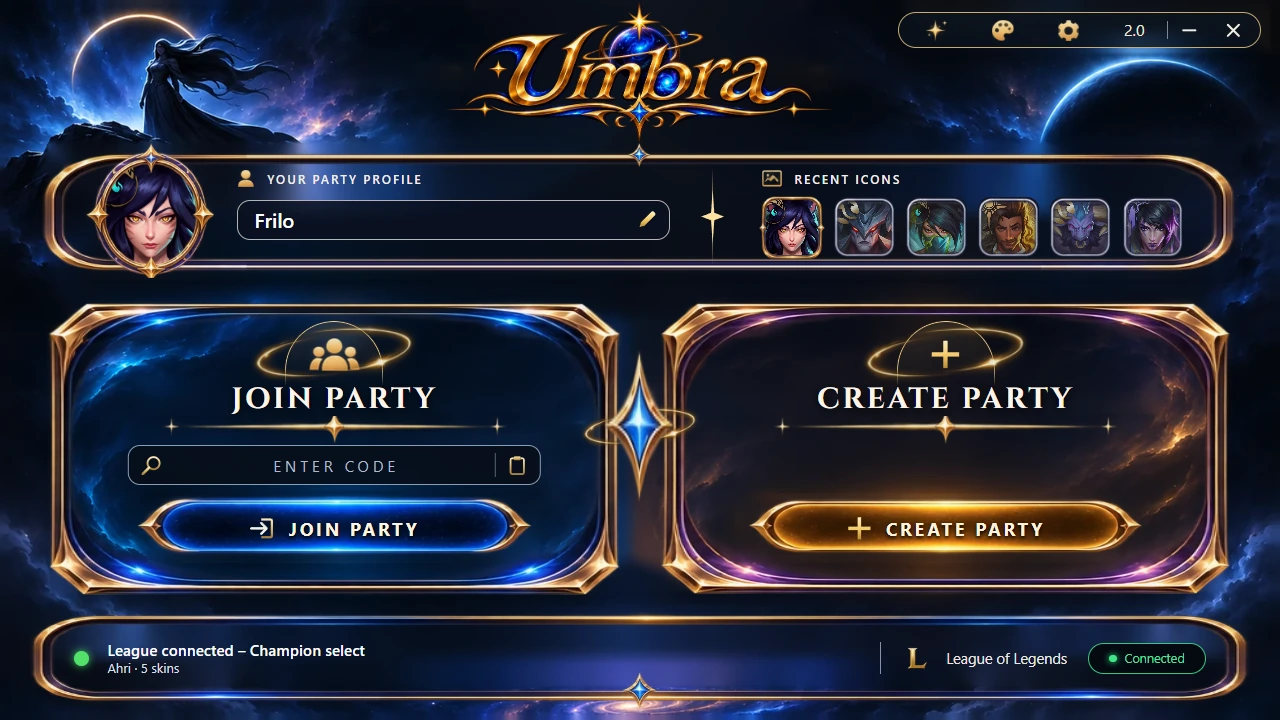
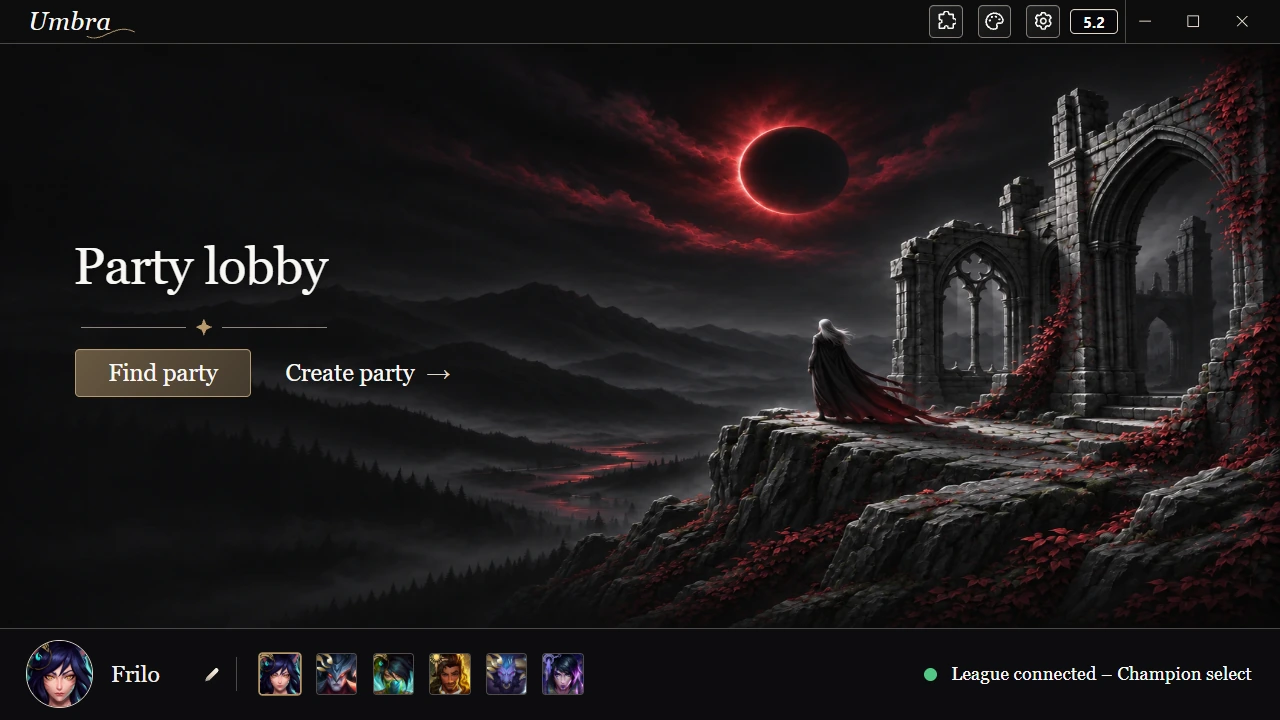
Refresh Umbra overview and screenshots for version 5.2

diff --git a/README.md b/README.md
@@ -11,7 +11,9 @@ Riot skins, chromas and custom looks for League of Legends, ready from champion 
   <a href="https://github.com/frilo369/Umbra/issues"><img alt="Help and feedback" src="https://img.shields.io/badge/Help_%26_feedback-Open_an_issue-26364d?style=for-the-badge"></a>
 </p>
 
-<p align="center"><img src="docs/images/lobby.webp" alt="Umbra's gold and navy lobby, with a personal profile, recent icons and buttons to create or join a party" width="100%"></p>
+<p align="center"><img src="docs/images/lobby.webp" alt="Umbra 5.2 in the Eclipse design, with the Eclipse Ruins background, profile, Create Party and Find Party" width="100%"></p>
+
+**Current release: [Umbra 5.2](https://github.com/frilo369/Umbra/releases/tag/v5.2)** · 23 November 2026. This release improves the first connection to LTK Manager and makes repeated Riot skin audio builds consistent.
 
 ## A new look, a familiar game
 
@@ -19,33 +21,45 @@ Riot skins, chromas and custom looks for League of Legends, ready from champion 
 | :--- | :--- |
 | **Pick your look** | Browse Riot skins and chromas, search by name, or roll a random pick in the champion-select drawer. |
 | **Go custom** | Use the custom catalogue, browse Divine Skins, add your own `.fantome` / `.modpkg` packages, and keep optional custom mods enabled across matches. |
-| **Bring your friends** | Create a party or join with a short code. Coordinate supported skin picks, see preparation status, and use Stealth to hide selections from other members. |
-| **Keep a guide nearby** | Open the bundled Mayhem guide or MetaSRC with the guide shortcut, **F1** by default. |
-| **Make it yours** | Choose your theme and profile icon, remember your last skin per champion, and launch quietly in the tray. |
-| **Stay ready** | App updates wait for League and skin work to be idle. Separate database checks refresh custom content; diagnostics and local log exports help with problems. |
+| **Bring your friends** | Create a party or browse **Find Party**, which refreshes whenever you open it and while it stays open. Coordinate supported picks, see preparation status, and use Stealth to hide your selections. If the host leaves, a remaining member takes over. |
+| **Keep a guide nearby** | Press **F1** by default for the bundled ARAM Mayhem guide or themed MetaSRC builds in Arena, ARAM and Ranked. Builds already viewed on a MetaSRC page reopen quickly. |
+| **Make it yours** | Choose the **Default** or **Eclipse** interface, built-in backgrounds or your own images, and a custom asset colour with a live preview and eyedropper. Each design remembers its background; each background remembers its colour. |
+| **Stay ready** | App updates wait for League and skin work to be idle. Separate database checks refresh custom content; Send logs gives you a four-character support code. |
 
 <p align="center"><img src="docs/images/skins.webp" alt="Ahri skin selection in Umbra, showing Star Guardian, Spirit Blossom, K/DA ALL OUT and Coven, with search, Random and Party controls" width="100%"></p>
 
+<p align="center"><img src="docs/images/party.webp" alt="Umbra 5.2 Eclipse party with four sample members, full-card skin artwork, host and preparation indicators" width="100%"></p>
+
 <table>
   <tr>
-    <td width="50%" align="center"><strong>A party at a glance</strong></td>
-    <td width="50%" align="center"><strong>Your preferences, in one place</strong></td>
+    <td width="50%" align="center"><strong>The Default design</strong></td>
+    <td width="50%" align="center"><strong>Two complete interface designs</strong></td>
   </tr>
   <tr>
-    <td><a href="docs/images/party.webp"><img src="docs/images/party.webp" alt="Sample Umbra party with four members, their selected skins and readiness indicators" width="100%"></a></td>
-    <td><a href="docs/images/settings.webp"><img src="docs/images/settings.webp" alt="Umbra settings with startup preferences, guide shortcut, updates, diagnostics and profile import" width="100%"></a></td>
+    <td><a href="docs/images/default-lobby.webp"><img src="docs/images/default-lobby.webp" alt="Umbra 5.2 Default lobby with ornate silver frames, ruby accents and the Umbra Eclipse background" width="100%"></a></td>
+    <td><a href="docs/images/themes.webp"><img src="docs/images/themes.webp" alt="Themes panel with Default and Eclipse interface designs" width="100%"></a></td>
+  </tr>
+  <tr>
+    <td align="center"><strong>Your backdrop</strong></td>
+    <td align="center"><strong>Your preferences and support</strong></td>
+  </tr>
+  <tr>
+    <td><a href="docs/images/backgrounds.webp"><img src="docs/images/backgrounds.webp" alt="Background gallery with built-in artwork, image import and separate asset colour controls" width="100%"></a></td>
+    <td><a href="docs/images/settings.webp"><img src="docs/images/settings.webp" alt="Umbra 5.2 settings with startup preferences, guide shortcut, updates, Open database folder and Send logs" width="100%"></a></td>
   </tr>
 </table>
 
-<p align="center"><sub>Interface previews with sample selections and party members. Click the smaller images to see the details.</sub></p>
+<p align="center"><sub>Umbra 5.2 interface previews with sample selections and party members. Click the smaller images to see the details.</sub></p>
 
 ## Start in three steps
 
-1. **Download the full setup** from [Latest release](https://github.com/frilo369/Umbra/releases/latest): choose `Umbra-…-Setup.exe`, including for a first installation.
+1. **Download the full setup** from [Latest release](https://github.com/frilo369/Umbra/releases/latest): the current installer is **[Umbra-5.2-Setup.exe](https://github.com/frilo369/Umbra/releases/download/v5.2/Umbra-5.2-Setup.exe)**, including for a first installation.
 2. **Run setup.** You'll need 64-bit Windows 10/11, League of Legends, and internet for any missing prerequisites. Setup installs WebView2 and LTK Manager when needed; LTK may ask for administrator permission and licence acceptance.
-3. **Open Umbra before you queue.** In champion select, open the skin drawer and double-click a skin to enable it. For Party, everyone opens Umbra and joins the same room.
+3. **Open Umbra before you queue.** In champion select, open the skin drawer and double-click a skin to enable it. For Party, one person chooses **Create Party**; friends use **Find Party** and search for the host's name.
 
 Umbra itself runs with your normal Windows permissions. To update, use **Settings → Check for updates**, or install the latest full setup. Your settings and skin library are preserved.
+
+Open **Themes** in the top-left toolbar to change your background, asset colour or interface design. **Settings** also lets you change the guide shortcut, remember your last skin per champion and launch quietly in the tray.
 
 <details>
 <summary><strong>A few things worth knowing</strong></summary>
@@ -53,14 +67,14 @@ Umbra itself runs with your normal Windows permissions. To update, use **Setting
 **Who sees the skins?**  
 Solo changes are local to your game and do not unlock purchases on your Riot account. Party coordinates supported picks between compatible Umbra clients. Private Local skins use a shareable stand-in for friends, rather than transferring your private package.
 
-**Already have a library?**  
-Settings can preview and copy supported settings, profiles and libraries from Friloverse or Divinity, plus a FrYiLoCo custom library. Source files stay in place, and conflicting packages are preserved.
+**Have your own packages?**<br>
+Open **Local Skins** from Custom Mods, then put your `.fantome` or `.modpkg` file in its champion's folder. Umbra keeps its own settings and library separate from other skin apps.
 
 **What about Windows warnings?**  
 Current releases are unsigned, so Windows or antivirus software may warn. Download only from this repository's Releases and compare the supplied SHA-256 checksums. A checksum is not a publisher signature or a guarantee of safety; report detections rather than disabling protection.
 
 **Need help?**  
-Check **Settings → Troubleshooting**, run diagnostics, or export a local log ZIP. [Open an issue](https://github.com/frilo369/Umbra/issues) with your Umbra version and what happened; review logs before sharing them.
+Choose **Settings → Send logs**, optionally add what happened, then give the four-character report code to the person helping you. This uploads a redacted Umbra and LTK Manager log report only when you click; reports are kept for 90 days. [Open an issue](https://github.com/frilo369/Umbra/issues) with your Umbra version and what happened.
 
 </details>
 
